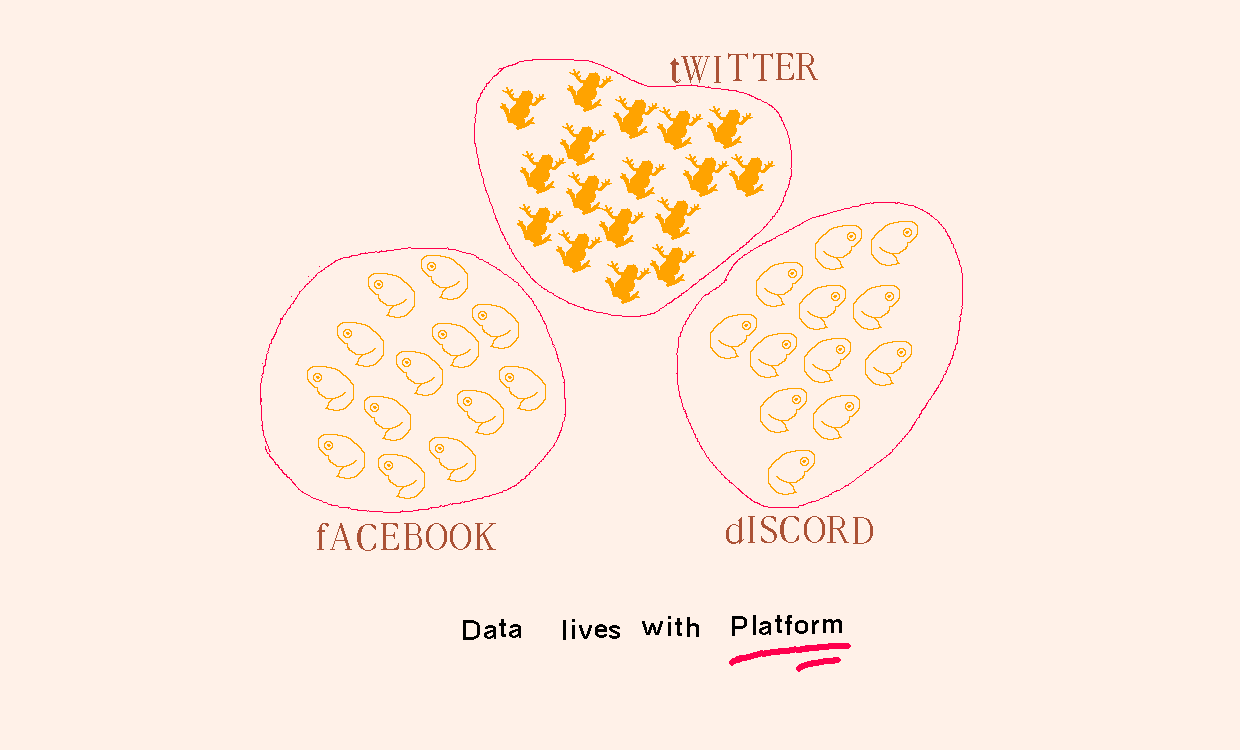
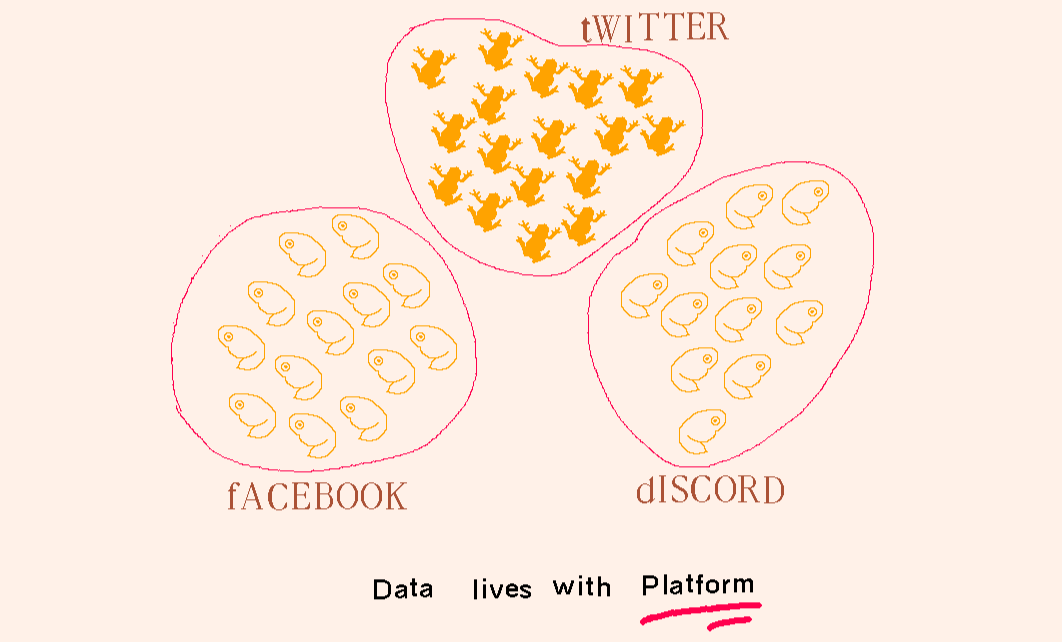
atmosphere copy update

diff --git a/src/lib/components/landing/Structure.svelte b/src/lib/components/landing/Structure.svelte
@@ -1,21 +1,30 @@
 <script lang="ts">
 	import thoughts from '$lib/assets/thoughts.png';
 	import threads from '$lib/assets/threads.png';
-	import Image from '$lib/components/Image.svelte';
+	import Image from '$lib/components/ui/Image.svelte';
 </script>
 
 <div class="grid-layout mt-8">
 	<h2>In search of structure</h2>
+
 	<p>
 		The thing about group chat is that it wants conversation to keep moving. It's like a river,
-		always trying to push forward. Structurally, old school forums just worked better for this
-		reason. All of the relevant coversations were grouped together by topics and index board.
+		always flowing forward.
+	</p>
+
+	<p>
+		Structurally, old school forums just worked better for this reason. All of the relevant
+		conversations were grouped together by topics listed orderly in index boards.
 	</p>
 
 	<p>
 		Each conversation on forums is contained under a topic. This seemingly simple design choice
-		curates info really nicely. Modern Discord is not meaningfully better at knowledge-management.
-		For groups engaged in knowledge work, revisiting conversation is important.
+		curates info really nicely.
+	</p>
+
+	<p>
+		Modern Discord is not meaningfully better at knowledge-management. For groups engaged in
+		knowledge work, revisiting conversation is important.
 	</p>
 
 	<Image
@@ -25,9 +34,11 @@
 		alt="thought is born. which in turn end up as conversation which being chats. we can gather this into an coherent block as 'threads'. this in turn helps us to compile down into condensed shapes such as article."
 	/>
 
+	<p>Thought starts the chain which creates a flourishing foray of plantlife.</p>
+
 	<p>
 		When larger spaces of discourse grow more complex, Roomy's UI opens up gradually, keeping
-		everything orderly. We can simply create a thread and keep chatting, as simple as that.
+		everything orderly. We can simply create a thread and keep chatting.
 	</p>
 </div>
 
@@ -40,12 +51,7 @@
 
 <div class="grid-layout">
 	<p>
-		The best in the biz right now are Zulip and Discourse. Zulip is especially close to Roomy in its
-		chat-to-threads approach.
-	</p>
-
-	<p>
-		Where Roomy differs is in being an atmospheric web app, 'atmospheric' is adhering to the AT
-		protocol.
+		A few existing community apps exist in this paradigm already. Where Roomy differs is in being an
+		atmospheric web application.
 	</p>
 </div>

diff --git a/src/lib/components/landing/Atmosphere.svelte b/src/lib/components/landing/Atmosphere.svelte
@@ -1,30 +1,30 @@
 <script lang="ts">
-	import Image from '$lib/components/Image.svelte';
+	import Image from '$lib/components/ui/Image.svelte';
 
 	import data_platform from '$lib/assets/data_platform.png';
 	import apps from '$lib/assets/apps.png';
 	import group from '$lib/assets/group.png';
-	import deer from '$lib/assets/deer.png';
 </script>
 
 <div class="grid-layout mt-8">
 	<h2>Welcome to the Atmosphere</h2>
 
 	<p>
-		A better way to understand this is though a Camper. Camper is a travelling home vehicle that you
-		can take anywhere. It provides you the freedom of living wherever you wish. Same is true for any
-		app made on AT protocol.
+		A better way to understand this is how Big Tech handles our data. All of our data is tighly
+		coupled to the platform.
 	</p>
+</div>
 
-	<p>
-		If you don't like it, you can always pack up and go somewhere else. But Big Tech doesn't like
-		the idea. They want you to hand over the keys so they can decide where you settle.
-	</p>
+<Image
+	src={apps}
+	class="cripsy mx-auto"
+	alt="closed circles with famous social media apps, representing their nature of locking userdata at one place on their platform."
+/>
 
+<div class="grid-layout">
 	<p>
-		Ask any camper owner, the best thing about owning one is freedom. This freedom allows you to
-		take part in anything you find interesting, and for <i>Roomy</i> that means a huge ecosystem of apps
-		built on AT Protocol.
+		Now, imagine you stopped using twitter(X) and moved to a different app. It has all of your
+		posts, pictures and followers. that would be amazing, No?
 	</p>
 </div>
 
@@ -36,16 +36,15 @@
 
 <div class="grid-layout">
 	<p>
-		You always own your data. You choose a trusted location to settle it while being part of the
-		community.
+		That's exactly what you can do using Bluesky, an atproto alternative to twitter(X) with 45
+		Million users.
+	</p>
+
+	<p>
+		This is where Roomy is positioning itself as an atproto app. An huge ecosystem that complements
+		each other without enforcing users to one platform.
 	</p>
 </div>
-
-<Image
-	src={apps}
-	class="cripsy mx-auto"
-	alt="closed circles with famous social media apps, representing their nature of locking userdata at one place on their platform."
-/>
 
 <Image
 	src={group}

diff --git a/src/lib/components/landing/Intro.svelte b/src/lib/components/landing/Intro.svelte
@@ -1,7 +1,7 @@
 <script lang="ts">
 	import space_channel from '$lib/assets/space_channel.png';
 	import ss from '$lib/assets/ss.png';
-	import Image from '$lib/components/Image.svelte';
+	import Image from '$lib/components/ui/Image.svelte';
 </script>
 
 <div class="grid-layout mt-10">
@@ -23,13 +23,13 @@
 	<p>That's roughly what it has looked like since the 90's.</p>
 
 	<p>
-		Roomy uses familiar structure, because we believe group chat is minimum viable everything. As
-		it's the best default foundation for community building.
+		Roomy uses a familiar structure because we believe group chat is the minimum-viable-everything
+		of community building.
 	</p>
 
 	<p>
-		Chatting is like pencil, we say the first thought that comes to mind. It can be edited later. This spontaneous energy
-		keeps us honest, because we're not trying to <i>sound</i> smart.
+		Chatting is like a pencil sketch; we express the first thought that comes to mind without
+		dwelling on straightened lines.
 	</p>
 </div>
 

diff --git a/src/lib/components/ui/Button.svelte b/src/lib/components/ui/Button.svelte
@@ -18,10 +18,9 @@
     "disabled:pointer-events-none disabled:opacity-60",
     "[&_svg]:pointer-events-none [&_svg]:size-4 [&_svg]:shrink-0",
     "px-4 py-1.5",
-    "bg-pink-400 dark:bg-pink-400",
-    "text-pink-950 [&_svg]:text-pink-700",
+    "bg-pink-300 hover:bg-pink-400 shadow-button",
+    "text-pink-900 [&_svg]:text-pink-700",
     "border border-px border-pink-400 [--shadow-button-color:var(--color-pink-700)]",
-    "hover:bg-pink-400 max-md:shadow-button md:hover:shadow-button",
     "focus-visible:outline-pink-500 dark:focus-visible:outline-pink-300",
     "backdrop-blur-md",
     "active:translate-[2px] active:shadow-none",

diff --git a/src/lib/components/landing/CTA.svelte b/src/lib/components/landing/CTA.svelte
@@ -1,11 +1,13 @@
 <script lang="ts">
-	import Image from '$lib/components/Image.svelte';
+	import Image from '$lib/components/ui/Image.svelte';
+	import Button from '$lib/components/ui//Button.svelte';
 
 	import deer from '$lib/assets/deer.png';
-	import Button from '../Button.svelte';
 </script>
 
 <div class="grid-layout">
-	<Button href="https://roomy.space" class="w-full py-3 mt-8 no-underline">Launch Roomy</Button>
+	<Button href="https://roomy.space" class="w-full max-w-80 mx-auto py-3 mt-6 no-underline"
+		>Launch Roomy</Button
+	>
 </div>
 <Image src={deer} class="mx-auto no-margin translate-y-1" alt="deer " />

diff --git a/src/routes/+page.svelte b/src/routes/+page.svelte
@@ -1,5 +1,5 @@
 <script lang="ts">
-	import Image from '$lib/components/Image.svelte';
+	import Image from '$lib/components/ui/Image.svelte';
 
 	import Atmosphere from '$lib/components/landing/Atmosphere.svelte';
 	import Intro from '$lib/components/landing/Intro.svelte';

diff --git a/src/lib/styles/layout.css b/src/lib/styles/layout.css
@@ -167,7 +167,8 @@
 		background: var(--white);
 		color: var(--brown);
 		font-family: var(--font-serif);
-		font-size: var(--step-1);
+		font-size: var(--step-0);
+		font-variant-numeric: lining-nums;
 	}
 
 	a {
